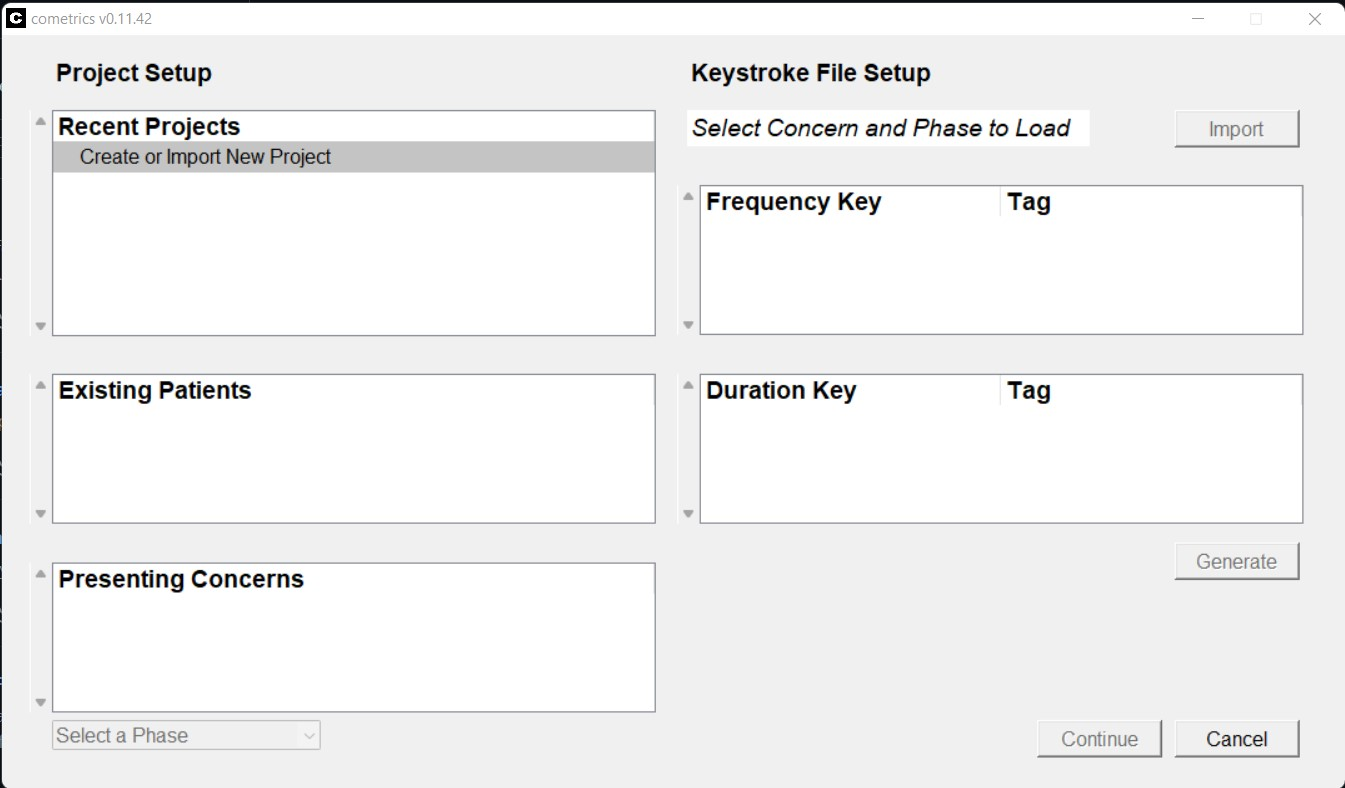
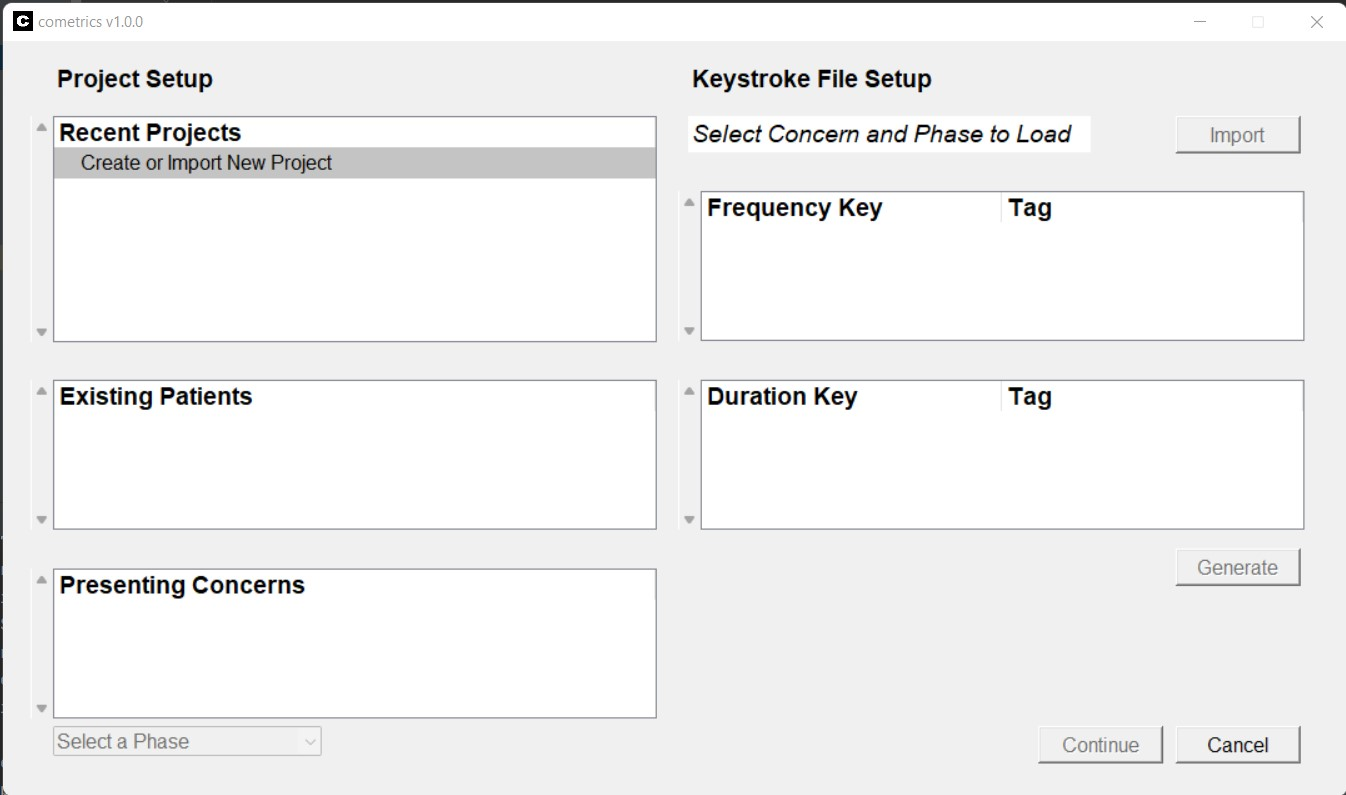
Preparing first public release
- Creating images for documentation
- Recording FPS is a variable in the config file
- Added utilities to get and set the recording FPS
- Recording FPS is wired into the VideoView VIdeoRecorder object
- Deleted event is initialized in ViewVideo class
- Only the last 20 projects will be saved
- Bump to v1.0.0

diff --git a/output_view_ui.py b/output_view_ui.py
@@ -29,7 +29,7 @@ class OutputViews:
 
 class OutputViewPanel:
     def __init__(self, parent, x, y, height, width, button_size, ksf,
-                 field_font, header_font, video_import_cb, slider_change_cb):
+                 field_font, header_font, video_import_cb, slider_change_cb, fps):
         self.height, self.width = height, width
         self.x, self.y, self.button_size = x, y, button_size
         self.current_button = 0
@@ -90,7 +90,8 @@ class OutputViewPanel:
         self.video_view = ViewVideo(self.view_frames[OutputViews.VIDEO_VIEW],
                                     height=self.height - self.button_size[1], width=self.width,
                                     field_font=field_font, header_font=header_font, button_size=button_size,
-                                    video_import_cb=video_import_cb, slider_change_cb=slider_change_cb)
+                                    video_import_cb=video_import_cb, slider_change_cb=slider_change_cb,
+                                    fps=fps)
         self.event_history = []
 
     def switch_key_frame(self):
@@ -200,8 +201,9 @@ class OutputViewPanel:
 
 
 class ViewVideo:
-    def __init__(self, root, height, width, field_font, header_font, button_size, field_offset=60,
+    def __init__(self, root, height, width, field_font, header_font, button_size, fps, field_offset=60,
                  video_import_cb=None, slider_change_cb=None):
+        self.recording_fps = fps
         self.height, self.width = height, width
         self.event_history = []
         self.root = root
@@ -220,6 +222,7 @@ class ViewVideo:
         self.camera_str_var = StringVar()
         self.recorder = None
         self.player = None
+        self.deleted_event = None
         self.load_camera_box = Combobox(self.root, textvariable=self.camera_str_var, font=field_font)
         self.load_camera_box['state'] = 'readonly'
         self.load_camera_box.config(font=field_font)
@@ -248,7 +251,6 @@ class ViewVideo:
         load_cam_thread = threading.Thread(target=self.get_camera_sources)
         load_cam_thread.daemon = 1
         load_cam_thread.start()
-        # TODO: Implement session control by video import
 
     def get_camera_sources(self):
         self.camera_sources = VideoRecorder.get_sources()
@@ -330,7 +332,7 @@ class ViewVideo:
                     source = self.camera_sources[self.selectable_sources.index(self.camera_str_var.get())]
                     self.recorder = VideoRecorder(source=source,
                                                   path=None,
-                                                  fps=8,
+                                                  fps=self.recording_fps,
                                                   label=self.video_label,
                                                   size=(self.video_width, self.video_height),
                                                   keep_ratio=True)

diff --git a/project_setup_ui.py b/project_setup_ui.py
@@ -200,7 +200,7 @@ class ProjectSetupWindow:
             if not self.recent_projects:
                 self.recent_projects = []
             self.recent_projects.append(self.project_dir)
-            self.config.set_recent_projects(self.recent_projects)
+            self.config.set_recent_projects(self.recent_projects[-20:])
             # Load the project
             self.load_project(self.project_dir)
         elif caller == 1:
@@ -219,6 +219,7 @@ class ProjectSetupWindow:
                 self.concern_treeview.insert("", 'end', str((int(self.concern_treeview_parents[-1]) + 1)), text=data,
                                              tags=treeview_tags[(int(self.concern_treeview_parents[-1]) + 1) % 2]))
             select_focus(self.concern_treeview, self.concern_treeview_parents[-1])
+            self.load_concern(len(self.concerns))
 
     # endregion
 
@@ -335,14 +336,17 @@ class ProjectSetupWindow:
             if selection == '0':
                 self.create_new_concern()
             else:
-                try:
-                    # TODO: There is a bug when concern file is created that it is not loaded correctly
-                    self.selected_concern = self.concerns[int(selection) - 1]
-                    self.phases_menu.config(state='active')
-                    self.phases_menu['state'] = 'readonly'
-                except IndexError as e:
-                    print(
-                        f"ERROR: Error encountered when selecting concern: \n{str(e)}\n{traceback.print_exc()}\n{self.concerns}\n{selection}")
+                self.load_concern(selection)
+
+    def load_concern(self, selection):
+        try:
+            # TODO: There is a bug when concern file is created that it is not loaded correctly
+            self.selected_concern = self.concerns[int(selection) - 1]
+            self.phases_menu.config(state='active')
+            self.phases_menu['state'] = 'readonly'
+        except IndexError as e:
+            print(
+                f"ERROR: Error encountered when selecting concern: \n{str(e)}\n{traceback.print_exc()}\n{self.concerns}\n{selection}")
 
     def create_new_concern(self):
         EntryPopup(self, self.main_root, "Enter New Concern", 2)

diff --git a/cx_exe_setup.py b/cx_exe_setup.py
@@ -4,7 +4,11 @@ from cx_Freeze import setup, Executable
 # Dependencies are automatically detected, but it might need fine tuning.
 from ui_params import cometrics_version
 
-buildOptions = dict(
+base = None
+if sys.platform == "win32":
+    base = "Win32GUI"
+
+build_exe_options = dict(
     packages=["os", "sys", "tkinter", 'logger_util'],
     includes=['pynput', 'pynput.keyboard._win32', 'pynput.mouse._win32', 'logger_util'],
     excludes=[],
@@ -13,15 +17,19 @@ buildOptions = dict(
     path=sys.path + ["lib"],
 )
 
-# GUI applications require a different base on Windows (the default is for
-# a console application).
-base = None
-if sys.platform == "win32":
-    base = "Win32GUI"
+bdist_msi_options = {
+    'add_to_path': False,
+    'initial_target_dir': r'[ProgramFilesFolder]\%s\%s' % ("Name", "Product"),
+                    }
+executable = [Executable("cometrics.py",
+                         targetName="cometrics.exe",
+                         base=base,
+                         icon=r'images\icon.ico')]
 
 setup(name="cometrics",
       version=cometrics_version,
       description='Clinical tool for coregistration of frequency and duration based behavior, physiological signals, '
                   'and video data. Session tracking features streamline multi-session clinical data recording.',
-      options={"build_exe": buildOptions},
-      executables=[Executable("cometrics.py", base=base, icon=r'images\icon.ico')])
+      options={"bdist_msi": bdist_msi_options,
+               "build_exe": build_exe_options},
+      executables=executable)

diff --git a/session_manager_ui.py b/session_manager_ui.py
@@ -111,7 +111,8 @@ class SessionManagerWindow:
                                    field_font=self.field_font,
                                    header_font=self.header_font,
                                    video_import_cb=self.start_video_control,
-                                   slider_change_cb=self.change_time)
+                                   slider_change_cb=self.change_time,
+                                   fps=self.config.get_fps())
         self.stf.kdf = self.ovu.key_view
         self.pdf = PatientDataFields(root,
                                      x=5,

diff --git a/config_utils.py b/config_utils.py
@@ -64,3 +64,17 @@ class ConfigUtils:
             else:
                 return False
 
+    def get_fps(self):
+        if self.config:
+            if self.config['fps']:
+                return float(self.config['fps'])
+
+    def set_fps(self, new_fps):
+        if self.config:
+            if self.config['fps']:
+                self.config['fps'] = new_fps
+                self.save_config()
+                return True
+            else:
+                return False
+

diff --git a/ui_params.py b/ui_params.py
@@ -1,4 +1,4 @@
-cometrics_version = "0.12.72"
+cometrics_version = "1.0.0"
 ui_title = f"cometrics v{cometrics_version}"
 
 cometrics_data_root = fr'C:\cometrics'
